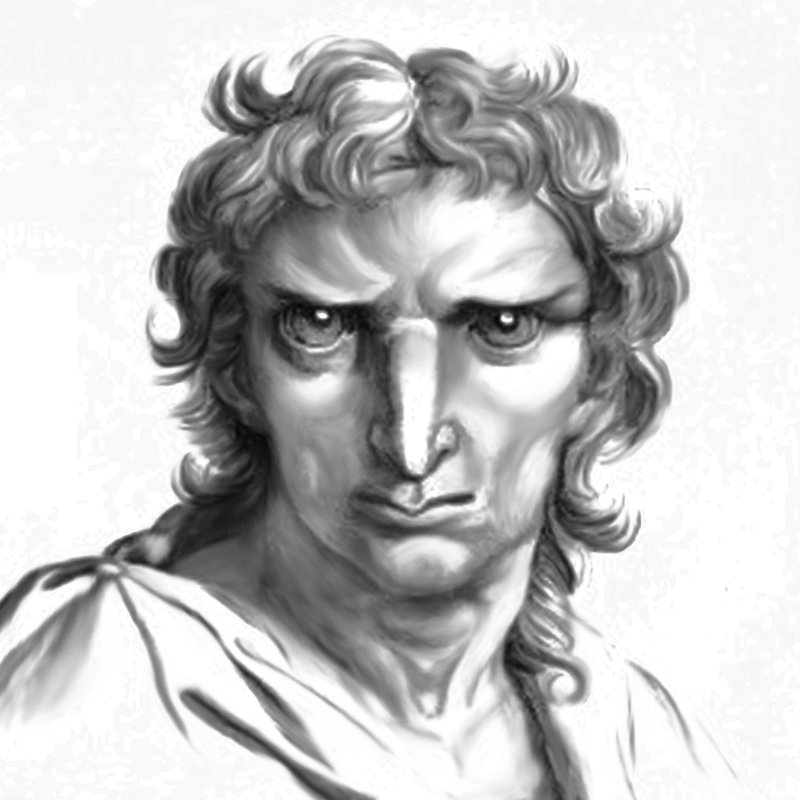
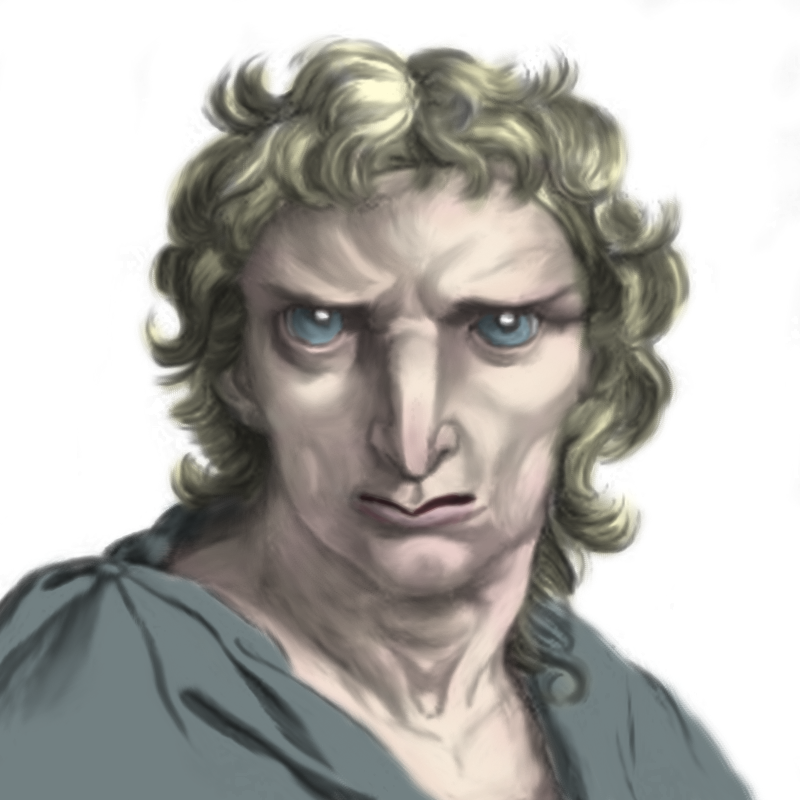
Colorisation images + changement dialogue

diff --git a/js/dialogue.js b/js/dialogue.js
@@ -1,0 +1,43 @@
+function dialogue(person){
+  $('#dialogWindow').css('bottom','0');
+  $('.dial_me').remove();
+  var justStartedTalking = 1;
+  if (person == "Guarde_MerryvalePsud"){
+    let textHalte1 = "\"Halte, "+localStorage.race+" ! Il y a taxe! Tu payer ou tu partir.\"";
+    let textPortesFermees1 = "\"Tu être pas du coin ? Oui, maintenant, portes de la ville sont fermées.\"";
+    let textTopo1 = "<i>*il crache de l'argile au sol*</i>&nbsp;&nbsp; \"En ce moment, beaucoup marauds. Surtout à la porte Nord, de l'autre côté. De ce côté, ça va. Montagnes de la Bruisse empêchent marauds Nord de passer Sud. <br>Et au Soufflant, bandits volent leurs propres affaires !<i>*il ricane puis se reprend*</i><br>Et horde invisible abîmer la ville, donc ici nous guardons, tu vois?\"";
+    let textPrix = "\"80 pièces d'or.<br>Attention, une fois toi rentré en ville, jamais ressortir par cette porte.\"";
+    //
+    let dialQuit1 = "<a id='dialQuit' class='dial_me'>Ca sent l'embrouille ici, je m'en vais.</a>";
+    let dialQuit2 = "<a id='dialQuit' class='dial_me'>Tant pis pour moi alors ! Bonne journée à vous, c'était un agréable brin de causette !</a>";
+    let dialQuit3 = "<a id='dialQuit' class='dial_me'>AH ! Ca rentre pas vraiment dans mon budget, je reviendrai alors !</a>";
+    let dialHistoire_AskWhyPeage1 = "<a id='dialHistoire_AskWhyPeage' class='dial_me'>Une taxe pour rentrer en ville ? Mais qu'est-ce-que c'est que cette arnaque ?</a>";
+    let dialHistoire_AskWhatsHappening1 = "<a id='dialHistoire_AskWhatsHappening' class='dial_me'>Ah c'est donc récent ! Mais quel intérêt à part faire fuir les visiteurs ?</a>";
+    let dialHistoire_LaQuoi1 = "<a id='dialHistoire_LaQuoi' class='dial_me'>La QUOI invisible ?</a>";
+    let dialAskAboutTax1 = "<a id='dialAskAboutTax' class='dial_me'>Une taxe ? On parle de combien ?</a>";
+    let dialAskAboutTax2 = "<a id='dialAskAboutTax' class='dial_me'>J'ai cru comprendre oui ! Et la taxe est à combien ?</a>";
+    let dialAskAboutTax3 = "<a id='dialAskAboutTax' class='dial_me'>Dur dur quoi. Je dois payer combien pour passer et éviter de me refaire cracher dessus ?</a>";
+    let dialPay1 = "<a id='dialPay' class='dial_me'>Pas de souc' ! J'ai toujours un peu de feraille sur moi. <i>(donner 80 pièces d'or)</i></a>";
+    if (justStartedTalking == 1){
+      $('#Dialog_TextBubble').html(textHalte1);
+      $('#Dialog_TextLines').append(dialHistoire_AskWhyPeage1+dialAskAboutTax1+dialQuit1);
+    }
+    $(document).on('click', '.dial_me', function(){ $('.dial_me').remove(); });
+    $(document).on('click', '#dialQuit', function(){closeDialog();});
+    $(document).on('click', '#dialHistoire_AskWhyPeage', function(){
+      $('#Dialog_TextBubble').html(textPortesFermees1);
+      $('#Dialog_TextLines').append(dialHistoire_AskWhatsHappening1+dialAskAboutTax2+dialQuit2);
+    });
+    $(document).on('click', '#dialHistoire_AskWhatsHappening', function(){
+      $('#Dialog_TextBubble').html(textTopo1);
+      $('#Dialog_TextLines').append(dialHistoire_LaQuoi1+dialAskAboutTax3+dialQuit2);
+    });
+    $(document).on('click', '#dialAskAboutTax', function(){
+      $('#Dialog_TextBubble').html(textPrix);
+      $('#Dialog_TextLines').append(dialPay1+dialQuit3);
+    });
+  }
+}
+function closeDialog(){
+  $('#dialogWindow').css('bottom','-100%');
+}

diff --git a/Histoire.html b/Histoire.html
@@ -209,7 +209,7 @@
 				<div id="origineXInt" class="statLine sub"><div class="statText">Origine</div><div class="statNumber mult"></div></div>
 				<div class="statLine sub"><div class="statText">Objets</div><div class="statNumber"></div></div>
 		</div>
-		<div id="sidebarRight_menuStats" class="sidebarRight_menu" style="display:none">
+		<div id="sidebarRight_menuStats" class="sidebarRight_menu maxheight" style="display:none">
 			STATS
 			<hr class="hr2">
 		</div>
@@ -334,6 +334,16 @@
 		</main>
 		<aside id="InvBRPane_Image"></aside>
 	</div>
+	<div id="dialogWindow" class="maxspace">
+		<aside id="Dialog_Image" class="maxheight"></aside>
+		<main id="Dialog_Mainblock" class="maxheight">
+			<div id="Dialog_TextBubble"><i>*il crache de l'argile au sol*</i>&nbsp;&nbsp; \"Ouais. En ce moment, beaucoup marauds. Ça grouille.. Surtout à la porte Nord, de l'autre côté ! De ce côté, ça va. Montagnes de la Bruisse empêchent marauds Nord de passer Sud. <br>Et au Soufflant, bandits volent leurs propres affaires !<i>*il ricane puis se reprend*</i><br>Et horde invisible abîmer la ville, donc ici nous guardons, tu vois?\"</div>
+			<div id="Dialog_TextLines">
+				<a id="dial_Quit" class="dial_me">Au revoir</a>
+				<a id="dial_Qit" class="dial_me">Au revoir</a>
+			</div>
+		</main>
+	</div>
 	<audio autoplay="true" loop controls id="playerEnvB"></audio>
 	<audio autoplay="true" loop controls id="playerEnvF"></audio>
 	<audio autoplay="true" controls id="playerMusic"></audio>
@@ -418,6 +428,7 @@ $(document).on('keydown',function(e){
 <script src="js/pageHistoire.js"></script>
 <script src="js/images.js"></script>
 <script src="js/inspect.js"></script>
+<script src="js/dialogue.js"></script>
 <script src="js/resizing.js"></script>
 <script>refAll();</script>
 </body>

diff --git a/css/styles.css b/css/styles.css
@@ -1198,3 +1198,53 @@ header#InvLPane_LeftHeader {
 #InvBRPane_Desc{height:45%;}
 #InvBRPane_Dmg{height:20%;}
 #InvBRPane_Pow{height:35%;}
+#dialogWindow{
+  background-color:#ebe4dc;
+  z-index: 10;
+  bottom:-100%;
+  transition: all 1s ease;
+}
+#Dialog_Image{
+  width:23%;
+  background-color: #422222;
+}
+#Dialog_Mainblock{
+  width:calc(77% - 11vh);
+  left:23%;
+  box-shadow: -27px 0 15px #0000001a, -10px 0 7px #0000001a;
+  box-sizing: border-box;
+  padding: 4vh;
+}
+#Dialog_TextBubble{
+  background-color: white;
+  width: 67%;
+  height: 40%;
+  position: absolute;
+  border-radius: 18px;
+  box-sizing: border-box;
+  padding: 2vmin;
+  font-size: 2.6vmin;
+  font-family: 'Didact Gothic', sans-serif;
+}
+#Dialog_TextLines{
+  height:calc(60% - 9vh);
+  width:100%;
+  box-sizing: border-box;
+  padding:4vh 2vh;
+  position: absolute;
+  top: 44%;
+}
+.dial_me{
+  color:black;
+  font-size: 2.5vmin;
+  font-family: 'Didact Gothic', sans-serif;
+  margin-bottom: 1vmin;
+  display:block;
+  transition: color 0.4s ease;
+}
+.dial_me:hover{
+  color:grey;
+}
+.dial_me::before{
+  content:"-";
+}

diff --git a/js/pageBtn.js b/js/pageBtn.js
@@ -86,7 +86,7 @@ function refBtns(){
   if (page == 3){
     addBtn(1,0,0,1,0,0,0,0);
     $("#btnWalk1").html("Retourner dans la plaine").attr("onclick","localStorage.numpage=2; refAll();");
-    $("#btnTalk1").html("Garde").attr("onclick","localStorage.numpage=3.1;window.location='Dialogue.html';");
+    $("#btnTalk1").html("Garde").attr("onclick","dialogue('Guarde_MerryvalePsud');");
     $("#btnLook1").html("Trouver un autre moyen de passer").attr("onclick","localStorage.numpage=3.2; refAll()").hide();
   }
   if (page == 3.2){

diff --git a/css/intro.css b/css/intro.css
@@ -288,10 +288,10 @@ a {cursor: url(../images/cursors/hand.png), auto !important;}
 	box-shadow: 0 4px 10px #0003, 0 1px 4px #0000004d;
 	background-size: 100% 100%;
 	transition:all 0.2s ease-in;
-	background-color: #d0bda1;
+	background-color: #cbbed1;
 }
 .raceArea:hover{
-	background-color: #ddc8a9;
+	background-color: #bbacc5;
 	width: 18vh;
 	height: 18vh;
 	margin-left: -0.5vh;
